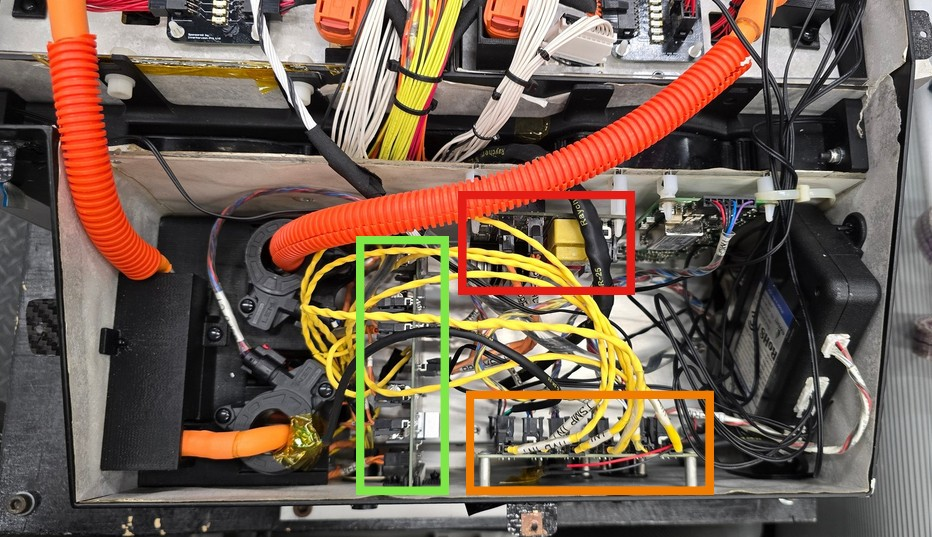
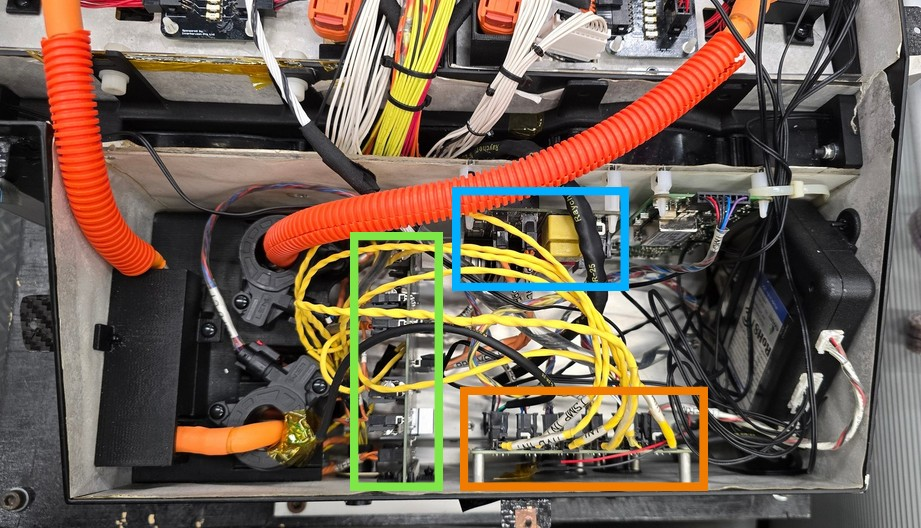
Updated Figure 4

diff --git a/objective-and-scope.md b/objective-and-scope.md
@@ -52,7 +52,7 @@ _Figure 4: R25E Tractive Battery Enclosure Internals_
 
 ---
 
-HV PCBs involved are: Precharge-Discharge PCB (red), Tractive Battery PDM PCB (orange) and HV Distribution PCB (green), as shown in _Figure 4_.
+HV PCBs involved are: Precharge-Discharge PCB (blue), Tractive Battery PDM PCB (orange) and HV Distribution PCB (green), as shown in _Figure 4_.
 
 ### R25Evo test run
 After validating powertrain functionalities with CM200DX on the testbench, test runs were conducted to determine whether HV system functions as designed when R25Evo is running with CM200DX and to finalise HV system design for R26E based on results gathered from the test runs.
